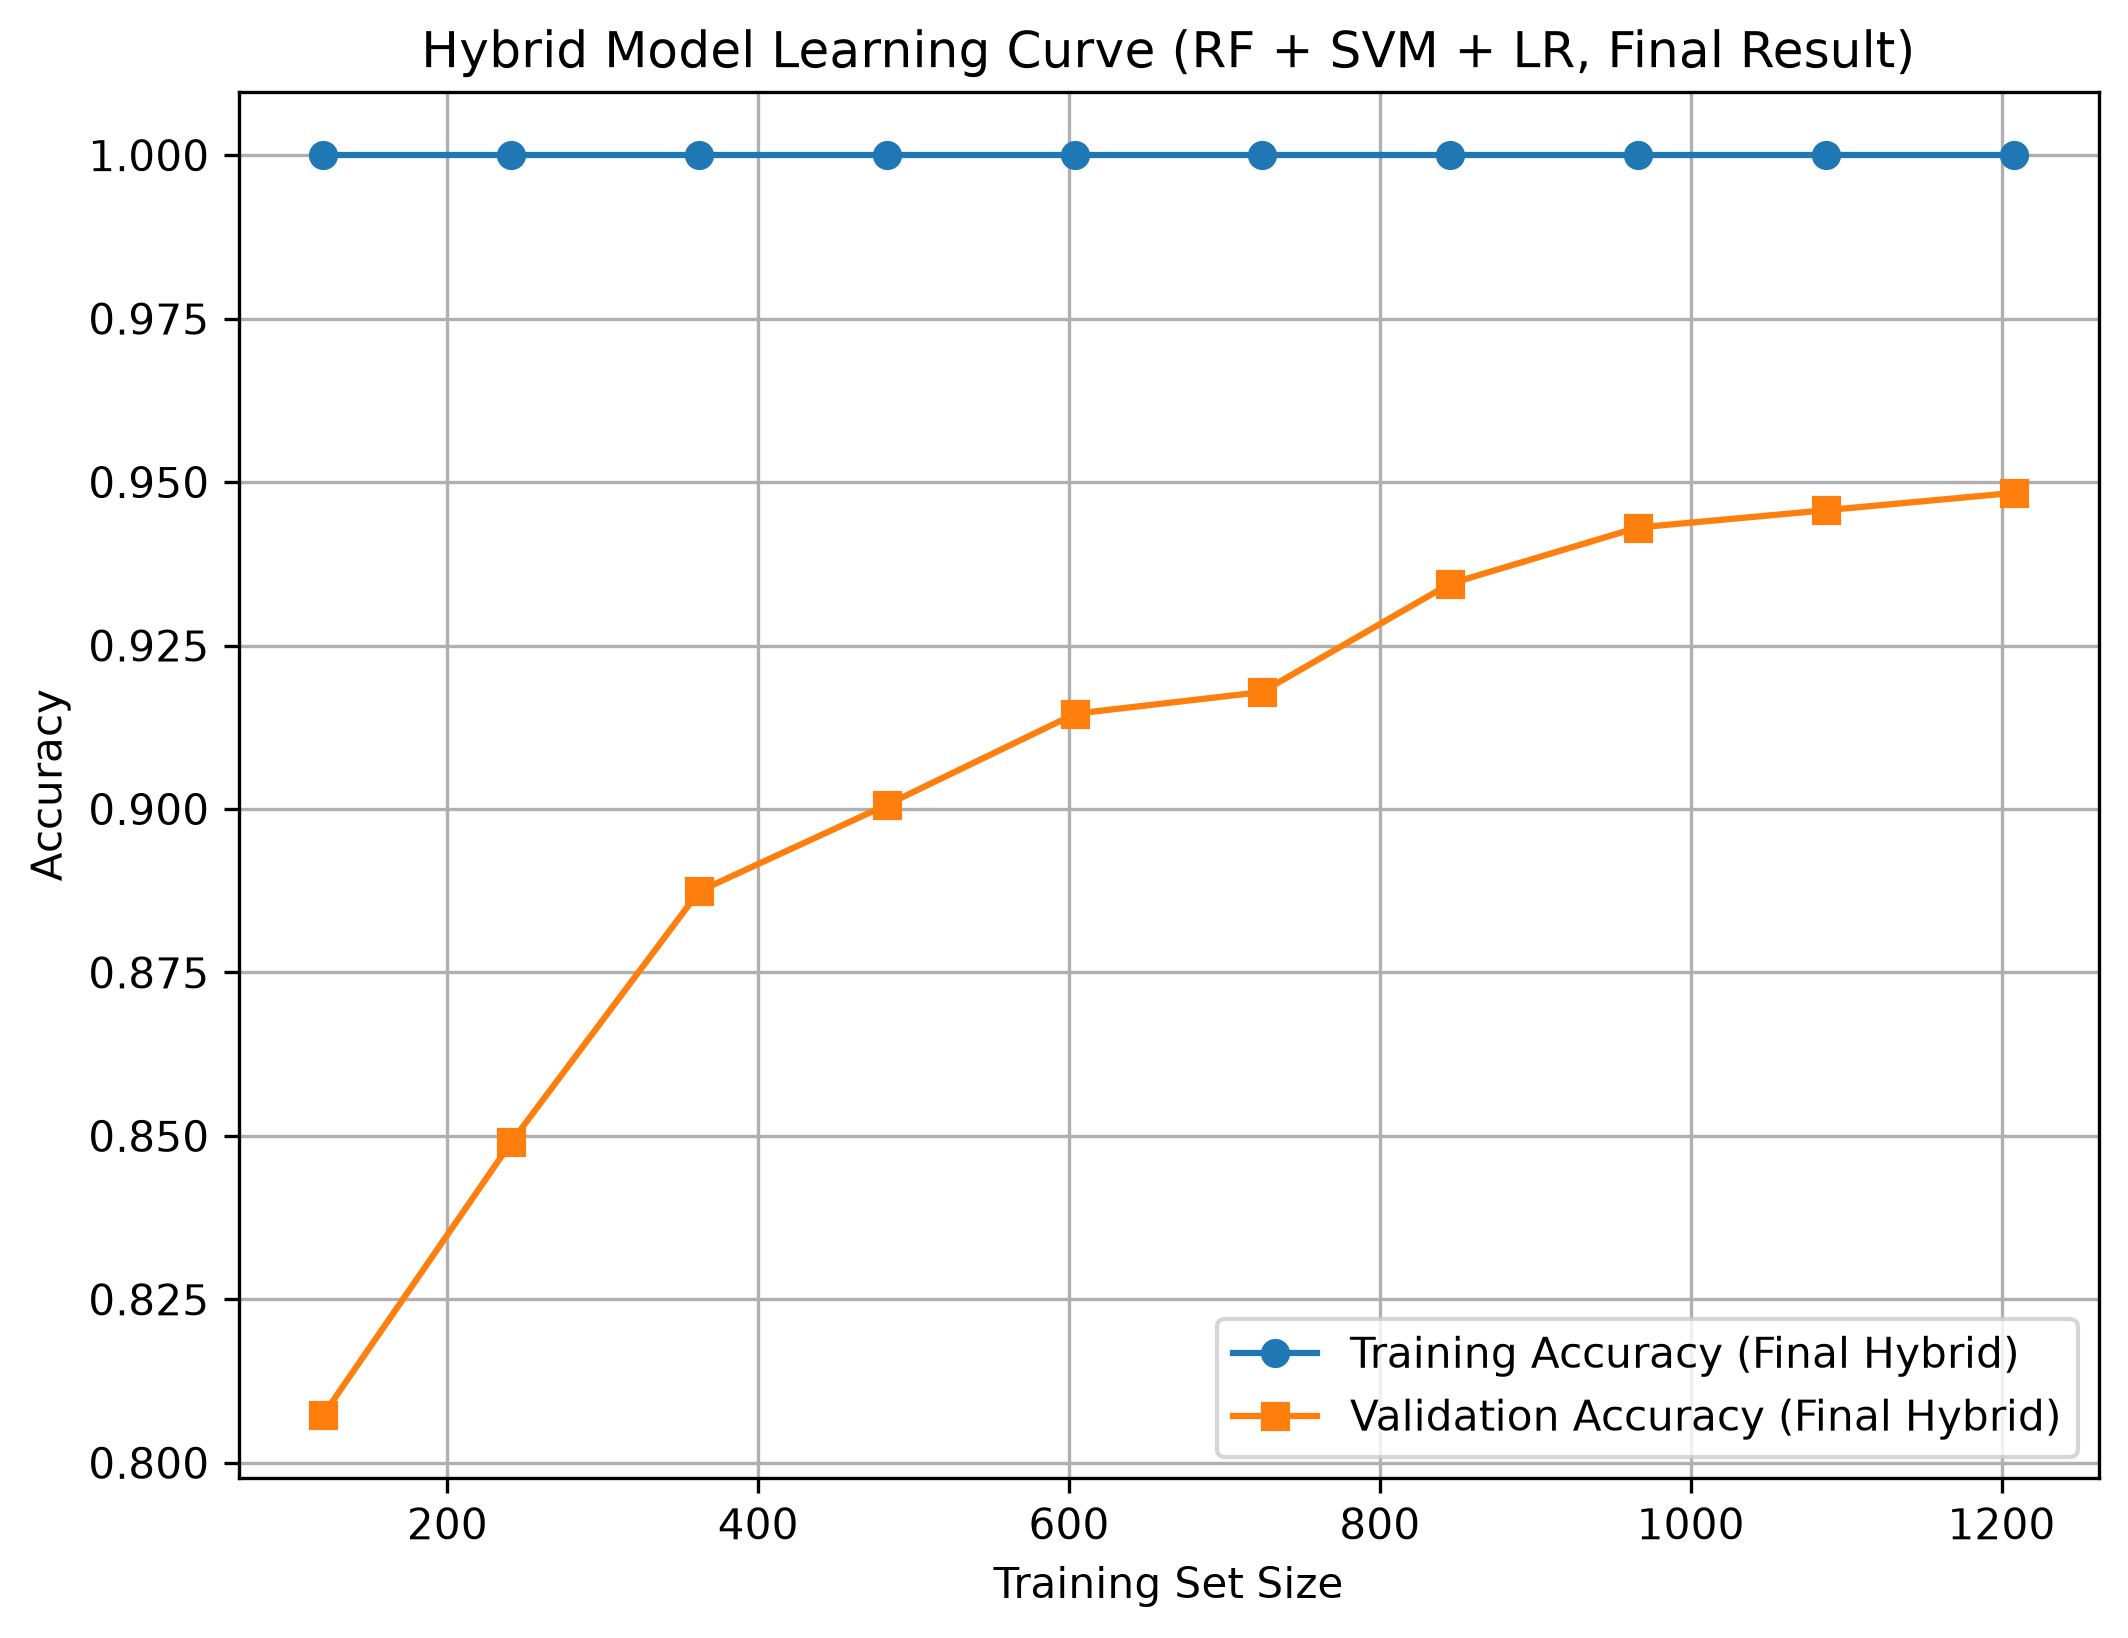
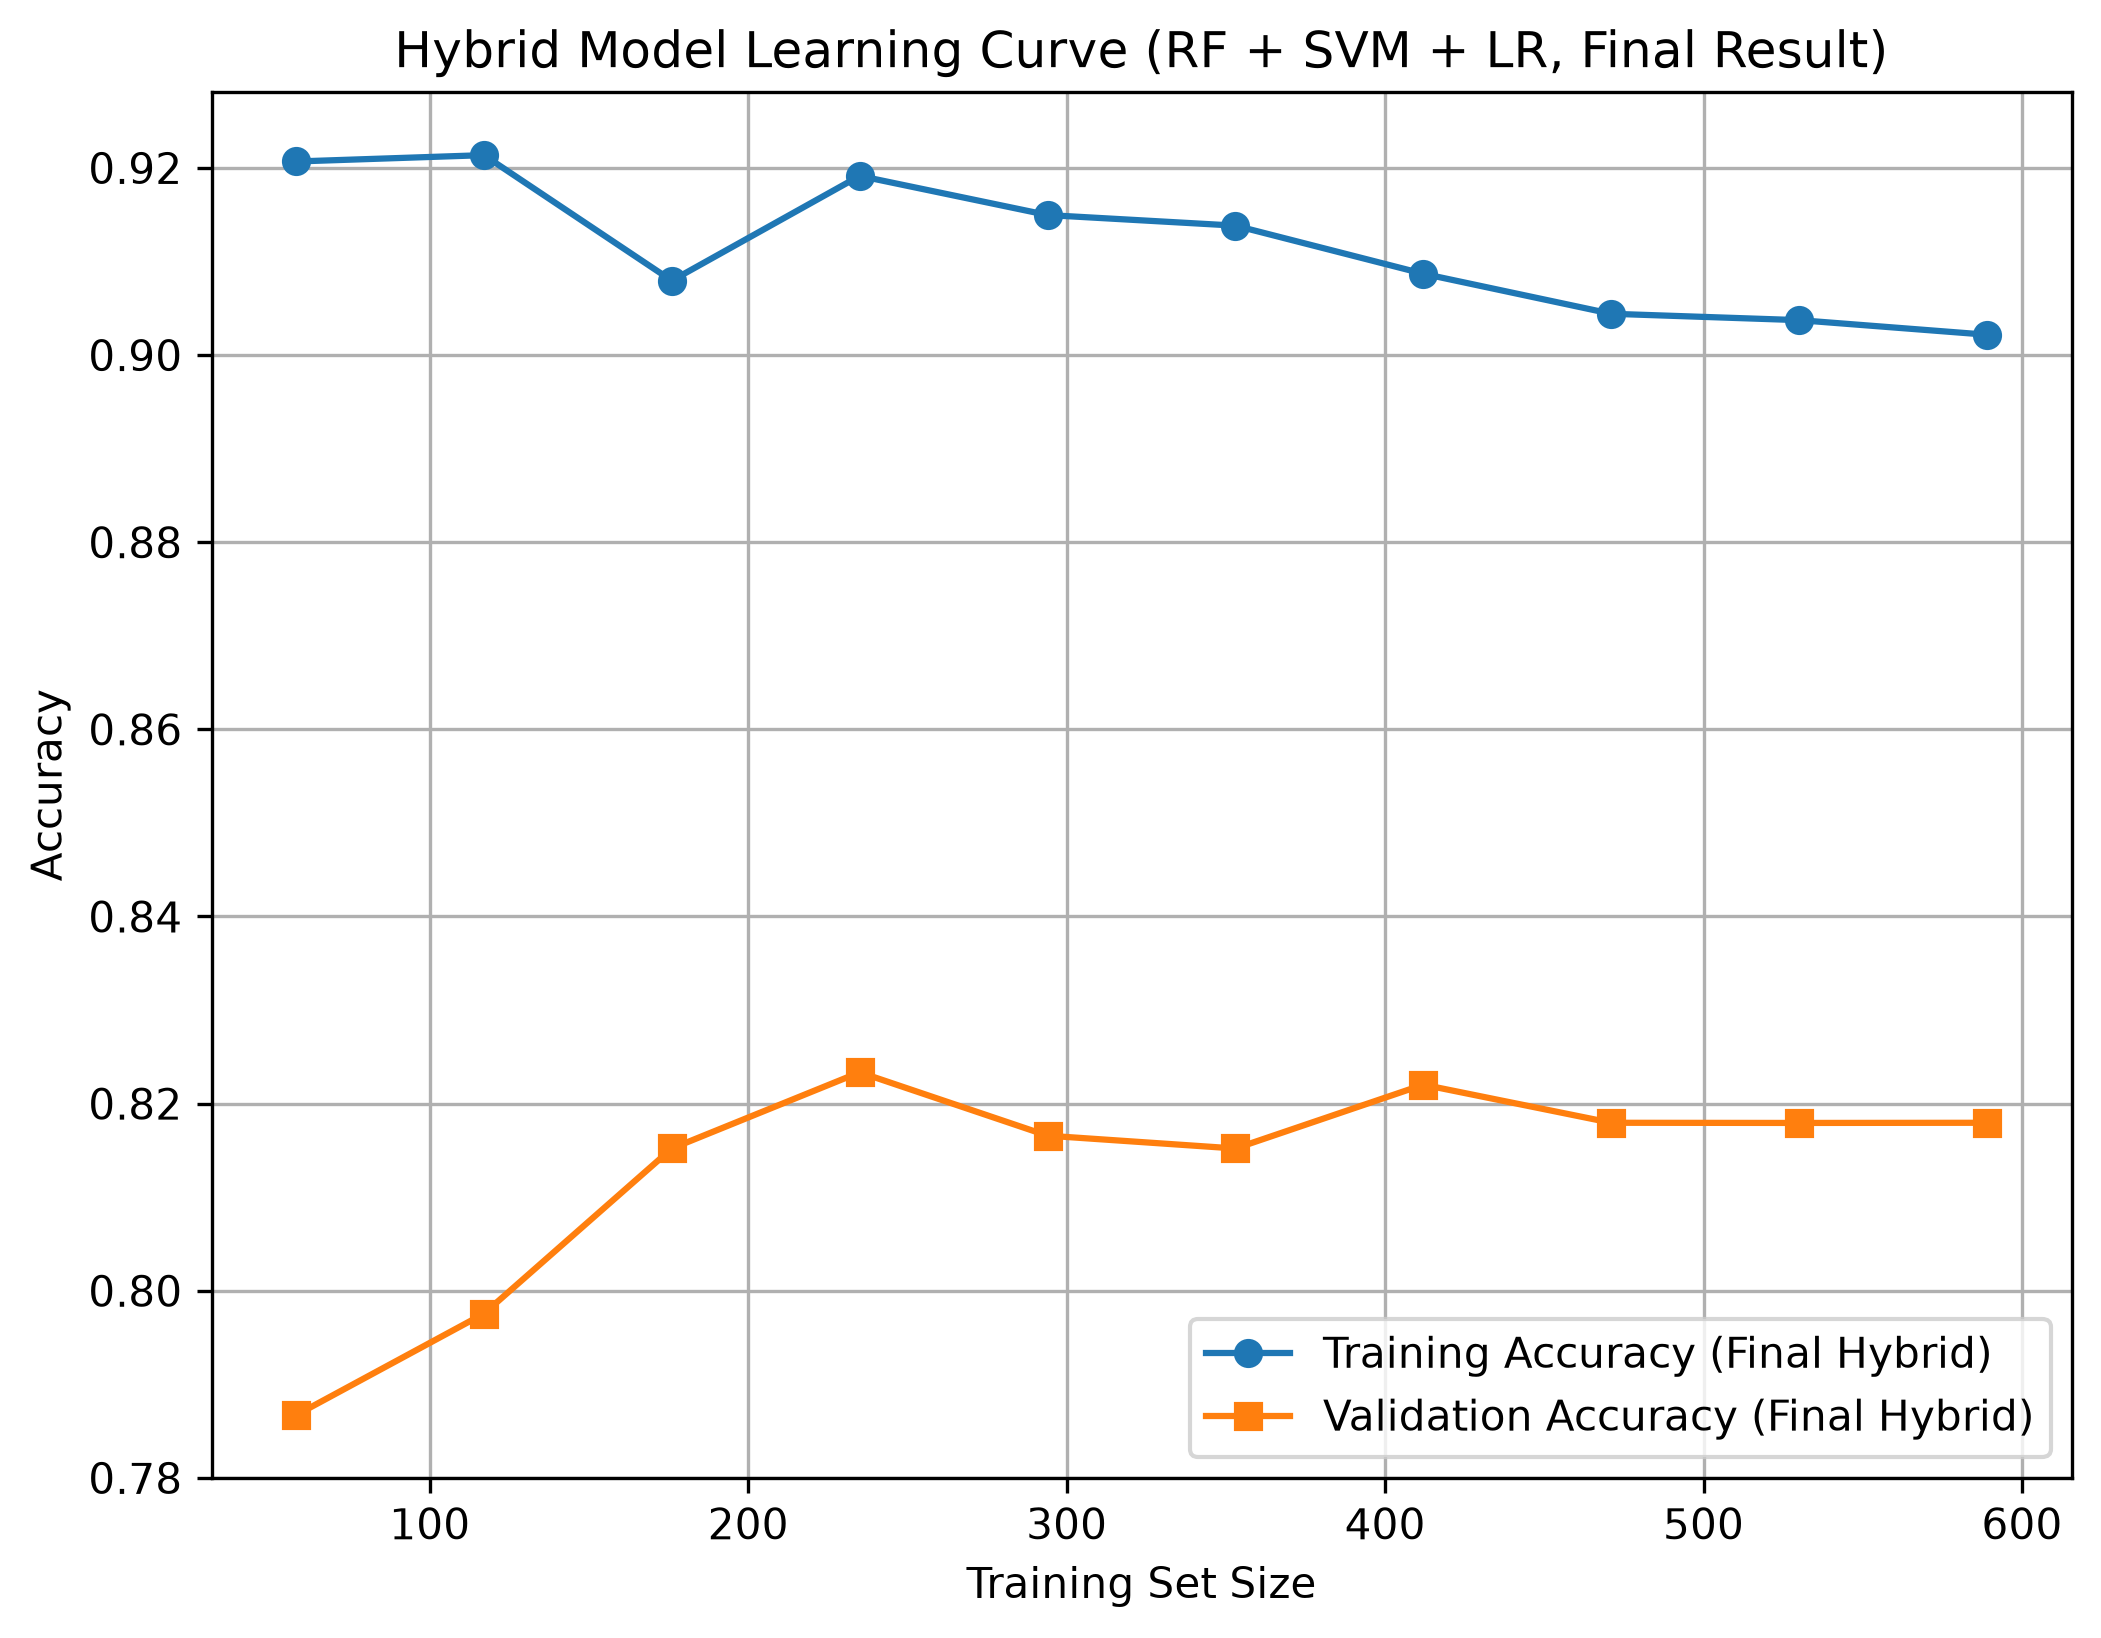
Added RF tuning v3 for new dataset

diff --git a/RF tuning v3.py b/RF tuning v3.py
@@ -1,7 +1,10 @@
 # ==========================================================
 # Heart Disease Prediction using Hybrid RF + SVM + LR
 # Based on:
-# A Hybrid Random Forest–Support Vector Machine Model
+# A Hybrid Random Forest-Support Vector Machine Model
+#
+# Dataset: UCI Heart Disease Data (Kaggle: redwankarimsony/heart-disease-data)
+# Combines Cleveland, Hungarian, Switzerland, and VA Long Beach cohorts.
 #
 # STAGE: RF is hyperparameter-tuned (GridSearchCV), SVM is left vanilla.
 # Next stage (later): fix RF at its tuned settings, tune SVM instead.
@@ -40,44 +43,56 @@ from sklearn.metrics import (
 # Load Dataset
 # ==========================
 
-df = pd.read_csv("cleaned_merged_heart_dataset.csv")
+df = pd.read_csv("heart_disease_uci.csv")
 
 print(df.shape)
 
 print("\nMissing Values:")
 print(df.isnull().sum())
 
-print("\nTarget Distribution:")
-print(df["target"].value_counts())
+# "num" is the raw target: 0 = no disease, 1-4 = increasing severity.
+# Binarize to 0/1 since the rest of the pipeline uses binary metrics
+# (precision_score, recall_score, roc_auc_score default to binary).
+print("\nRaw Target ('num') Distribution:")
+print(df["num"].value_counts().sort_index())
 
 # ==========================
 # Separate Features and Target
 # ==========================
 
-X = df.drop("target", axis=1)
-y = df["target"]
+# "id" is just a row identifier, not a feature.
+# "dataset" records which of the 4 source hospitals a row came from --
+# disease prevalence differs a lot by site as a data-collection artifact
+# rather than anything clinically meaningful, so it's dropped by default.
+# Add it back to categorical_columns below if you'd rather keep it.
+X = df.drop(columns=["id", "num", "dataset"])
+
+y = (df["num"] > 0).astype(int)
+
+print("\nBinarized Target Distribution (0 = no disease, 1 = disease present):")
+print(y.value_counts())
 
 # ==========================
 # Detect Numerical and Categorical Columns
 # ==========================
 
 categorical_columns = [
-    "sex",
-    "cp",
-    "fbs",
-    "restecg",
-    "exang",
-    "slope",
-    "ca",
-    "thal"
+    "sex",       # Male / Female
+    "cp",        # chest pain type
+    "fbs",       # fasting blood sugar > 120 mg/dl (True/False)
+    "restecg",   # resting ECG result
+    "exang",     # exercise-induced angina (True/False)
+    "slope",     # slope of peak exercise ST segment
+    "thal"       # thalassemia result
 ]
 
 numerical_columns = [
     "age",
-    "trestbps",
-    "chol",
-    "thalachh",
-    "oldpeak"
+    "trestbps",  # resting blood pressure
+    "chol",      # serum cholesterol
+    "thalch",    # max heart rate achieved (note: "thalch", not "thalachh")
+    "oldpeak",   # ST depression induced by exercise
+    "ca"         # number of major vessels colored by fluoroscopy (0-3)
 ]
 
 print("Numerical Columns:")
@@ -101,6 +116,9 @@ X_train, X_test, y_train, y_test = train_test_split(
 # ==========================
 # Handle Missing Values
 # ==========================
+# This dataset has substantial missingness outside the Cleveland cohort
+# (e.g. "ca" and "thal" are missing for most of the Switzerland/VA rows),
+# so imputation matters more here than on a single-source dataset.
 
 # Numerical Features
 
@@ -129,6 +147,10 @@ X_test[categorical_columns] = cat_imputer.transform(
 # ==========================
 # One-Hot Encoding
 # ==========================
+# fbs/exang are boolean-valued but read in as object dtype (mixed with
+# NaN before imputation), so get_dummies treats them like any other
+# categorical column here -- that's fine, drop_first=True still collapses
+# each to a single True/False indicator column as expected.
 
 X_train = pd.get_dummies(
     X_train,
@@ -150,26 +172,22 @@ X_train, X_test = X_train.align(
     axis=1,
     fill_value=0
 )
+
 # ==========================
 # Feature Scaling
 # ==========================
-
-continuous_features = [
-    "age",
-    "trestbps",
-    "chol",
-    "thalachh",
-    "oldpeak"
-]
+# Reusing numerical_columns here (rather than a separately hardcoded list)
+# so the scaled columns can't silently drift out of sync with what was
+# imputed above.
 
 scaler = StandardScaler()
 
-X_train[continuous_features] = scaler.fit_transform(
-    X_train[continuous_features]
+X_train[numerical_columns] = scaler.fit_transform(
+    X_train[numerical_columns]
 )
 
-X_test[continuous_features] = scaler.transform(
-    X_test[continuous_features]
+X_test[numerical_columns] = scaler.transform(
+    X_test[numerical_columns]
 )
 
 # ==========================
@@ -177,7 +195,7 @@ X_test[continuous_features] = scaler.transform(
 # ==========================
 
 rf_parameters = {
-    "n_estimators": [100, 200, 300],
+    "n_estimators": [100, 200, 300, 400, 500],
     "max_depth": [None, 10, 20],
     "min_samples_split": [2, 5, 10],
     "min_samples_leaf": [1, 2, 4],

diff --git a/dataset.py b/dataset.py
@@ -13,7 +13,7 @@ from sklearn.svm import SVC
 from sklearn.calibration import CalibratedClassifierCV
 from sklearn.linear_model import LogisticRegression
 
-df = pd.read_csv("heart_disease_dataset.csv")
+df = pd.read_csv("heart_disease_uci.csv")
 
 print(df.shape)
 print(df.head())
